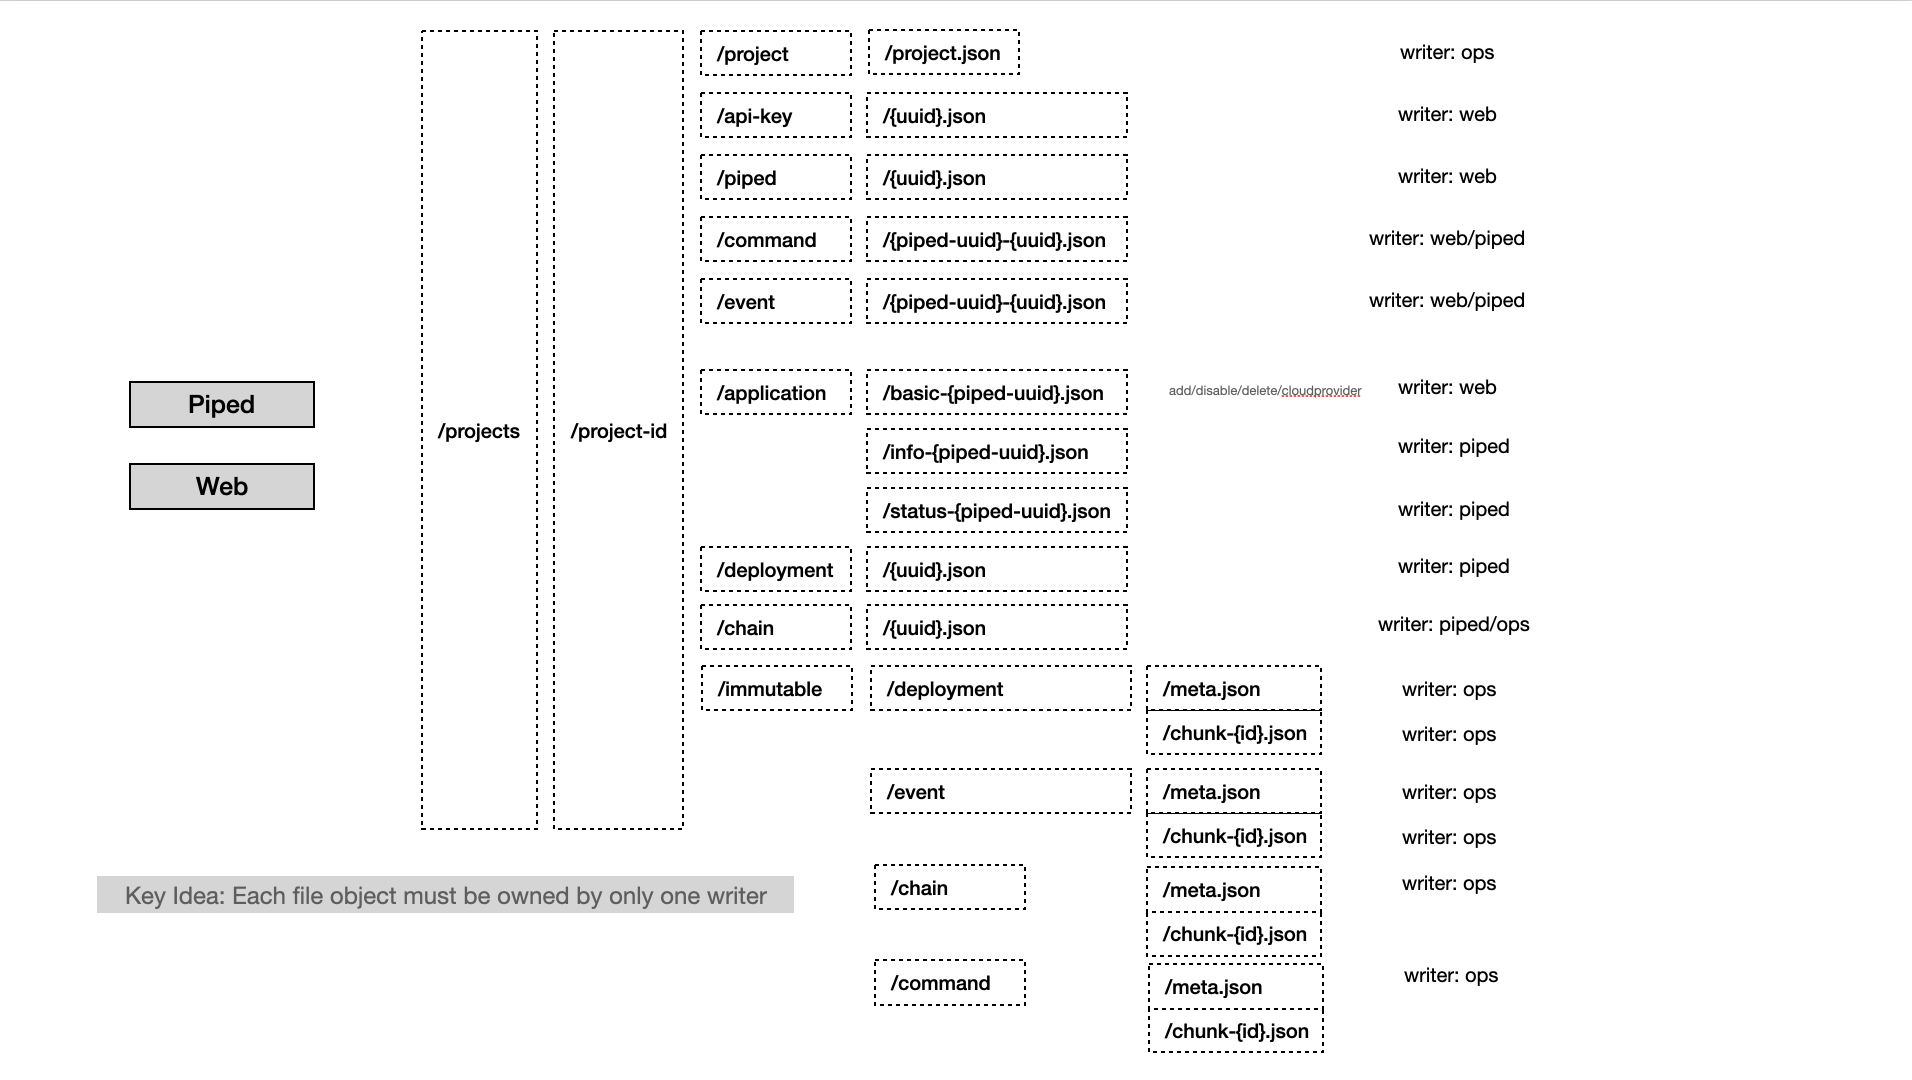
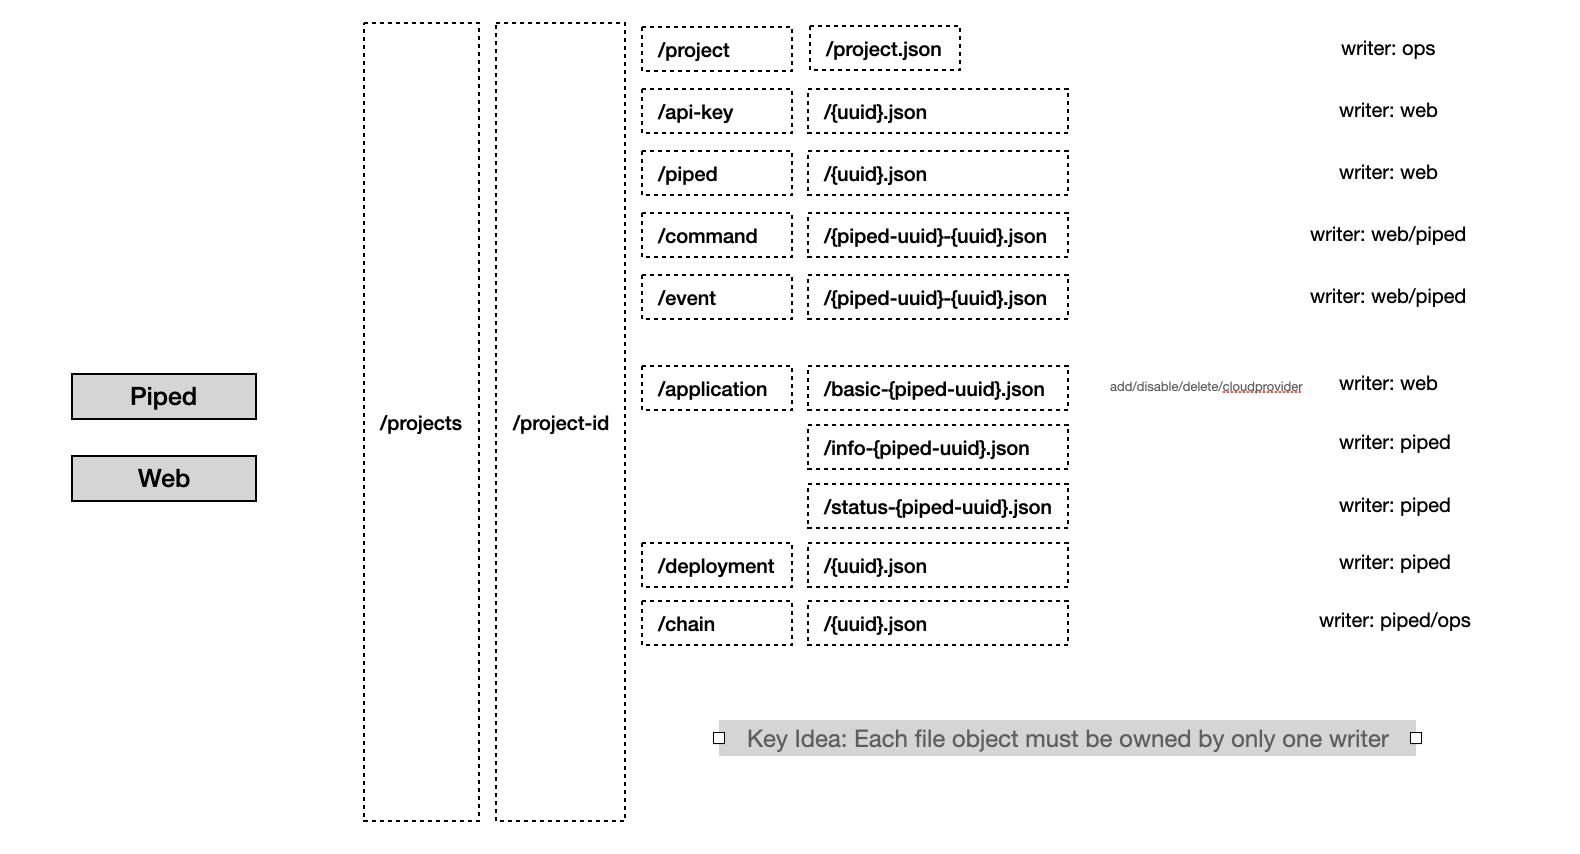
Update rfc

diff --git a/docs/rfcs/0008-simplify-datastore.md b/docs/rfcs/0008-simplify-datastore.md
@@ -12,44 +12,115 @@ As mentioned in the PipeCD [control-plane architecture overview](https://pipecd.
 # Detailed design
 
 As mentioned above, the current implementation of PipeCD allows us to just store objects as is, and from the reading side, we do not use complicated queries with `join` or something like that, which means we can simply write data objects to files directly. The remaining problems are:
-- How should we implement lock effectively in case we need to update the stored data objects
-- How should we index/store the data objects so that we can read stored data fast enough to not make our users anger because of the slow response console.
+1. How to ensure the correctness to avoid data corruption, data loss, inconsistency from being handled by concurrent processes.
+2. How should we index/store the data objects so that we can read stored data fast enough to not make our users anger because of the slow response console.
 
+To handle (1) we have two approaches:
+- Achieve by implement __lock__
+- Achieve by avoid concurrent processes data as much as possible
 
-### Some approaches we can take a look
+### Achieve by implement lock
 
-1. Single ambassador for write (e.g. using ops for handling all write operations)
+The most important thing to keep in mind while implement lock is to ensure there is always only ONE lock for each data object, and there will be only ONE process, which can hold the lock.
+With that note to keep in mind, we may have some approaches to go this way:
+- Create a single ambassador for write <1>
+- Using external service which controls locks (pessimistic locking) <2>
+- Using version field as data object properties and check for the version before write (optimistic locking) <3>
 
-Issues:
+#### <1> Create a single ambassador for write
 
-    - Downtime due to single point of failure
-    - Performance on get since there is only one reader
+Use a single process to handling lock, we can achieve that by introducing a new PipeCD component which only handle data writing. This new component works as a proxy for the current datastore component, and we have to keep it always be singleton.
 
-2. Distributed locking (optimistic)
+![image](assets/single-ambassador.png)
 
-Issues:
+Cons:
 
-    - Use a version field in record to ensure that correct version was used before writing
-    - Depends on which file store being used
+    - Downtime due to single point of failure.
+    - Performance on get since there is only one writer which handle all PipeCD components write requests.
+    - Have one more component which we need to handle ourself.
 
-3. Distributed locking (pessimistic)
+#### <2> Using external service which controls locks (pessimistic locking)
 
-Issues:
+Use a external service or Cache (the current Cache component) to store lock for all objects. Whenever we need to write (create or update) objects, add one more step to ask the lock controlling service to get lock for the object.
+This approach is known as pessimistic locking.
 
-    - Rely on an external system that holds the lock for all actors
-    - The key owner doesn't release, owner dies, timeout causes race condition
+Pros:
 
-4. Split data to ensure that each file is only owned by one writer
+    - PipeCD's objects have unique id which can be used as the key for lock in Cache or external service easily.
+    - Already have a Cache component as a part of the control-plane, so we don't need to increase the number of components.
 
-Issues:
+Cons:
+
+    - Rely on an external system that holds the lock for all actors. Even in case we just use the current Cache component, it's designed to be faultable, it can be down but not effect the whole system. Making it controls locks means the Cache is must and become a high availability component -> increase the cost of operating.
+    - In some cases, when the lock isn't released successfully, such as owner/writer faulted before free the lock on objects, we have to implement timeout or such -> increase the complexity and maintain cost to the system.
+
+#### <3> Using version field as data object properties (optimistic locking)
+
+Use a version field in record to ensure that correct version was used before writing. 
+
+Pros:
+
+    - Simple to implement since we only need to verify the version whenever we need to write.
+
+Cons:
+
+    - Depends on which file store being used, the filestore has to support sync state between regions/environment. Currently, only GSC is supporting features to implement this.
+
+### Achieve by avoid concurrent processes data as much as possible
+
+The idea is to split data to ensure that each file is only owned by one writer
+
+![image](assets/simplify-datastore-base-idea.png)
+
+Pros:
+
+    - Simple to implement, since PipeCD data model is simple, we prepared for single writer already.
+
+Cons:
 
     - Must keep a single writer for each object (or file in case we separate object to multiple files) and narrow down the number of possible features we can do
 
+To handle (2), there are some things we have to be aware of
+- Filter option interface <1>
+- Query bulk (fetch list) and quere by id (fetch single object) <2>
+- Read complex object which required to fetch multiple files then build up before return <3>
 
-### Making file stores object directly and keep single writter for each object file approach.
+#### <1> Filter option interface
+
+To unify with other datastore which be supported as PipeCD datastore (GCP firestore and MySQL), we plan to keep the ListOptions interface. Besides, this change should only affect the datastore layer, and we can change the application/API layer a bit to adopt this filestore database, but should not be too much. With this kind of requirement, we will have to add logic to the filestore database, which will fetch all objects in pagination and then filter by the conditions requested by clients (pipectl or web or piped). This may affect the performance and API latency compared to the database used pattern, but we can reduce the affection by using Cache.
+
+#### <2> Query bulk (fetch list) and quere by id (fetch single object)
+
+Since we will use filestore as PipeCD database, we should implement filestore with hot & cold storage separated pattern - storage called hot or cold defined based on: How often do the objects be updated? or the update frequency.
+
+Objects such as: deployment, command, event, deployment-chain, etc are only be created once and once they finished their life time (state or status changed to SUCCESS|FAILURE|CANCELLED), they will no more be updated. Those kinds of objects should be stored in `chunk` and mostly will be used to shown as list from deployment list view, for example. 
+
+On the opposite side, objects like pipelines, projects, applications, etc. have fewer numbers and are updated frequently throughout their lifetime; they should therefore be stored in hot storage.
+
+To implement this hot & cold storage pattern, we will
+- Introduce another storage controller to the ops. It will intervaly fetch file objects from hot storage, migrate objects to the cold storage in some conditions (based on objects state and timestamp)
+- Make data objects in cold storage stored in 2 different ways for 2 different purposes:\
+    + In chunk: used when request to get a list of objects (fetch bulk)
+    + In individual files: just like we stored in the hot storage, used when request to get object by id (fetch single object)
+
+![image](assets/simplify-datastore-cold-storage.png)
+
+#### <3> Read complex object which required to fetch multiple files then build up before return
+
+For objects of `applications` model, we may need to treat them a bit differently from others. The object of applications model contains properties with different updating rates, for instance
+
+- The applicationId, projectId, piped (which handle this application), kind are only be touched when creating object, mostly not been changed throughout object's lifetime. They should be counted as application basic info.
+- The application name, labels, and source repository are updated a little more often, but not too much. They should be counted as application info, users likely change those properties manually while using PipeCD.
+- The applications deploying status, sync state, most recently triggered/deployed deployment references, etc are the most frequently updated, they will be updated by piped which handles this application any time based on the events while deploying this application's deployments.
+
+To store object for applications model, we plan to split it to 3 parts based on its updating rates. As a consequence, when we need to read objects of applications model, we need to fetch its 3 parts and build up in the datastore layer before return.
+
+With the above splitting application models idea implemented, we will have the file structure for the hot storage looks like this
 
 ![image](assets/simplify-datastore-idea.png)
 
 # Things to concern
 
-In some cases, when we have objects that is be able to be updated by multiple "writers", it's hard to control the write ordering between those writers. Or else, we have to keep in mind to avoid complex objects which possible be updated by multiple writers, which limits the number of possibilities we can choose when designing the feature.
+We have to keep in mind to avoid complex objects which possible be updated by multiple writers, which limits the number of possibilities we can choose when designing the feature.
+
+Another thing to concern is when we face a case that requires reading a list of objects from the hot storage, and the number of objects is big enough, the API latency may get too high. Need to investigate the limitation for network filestore read/write.
